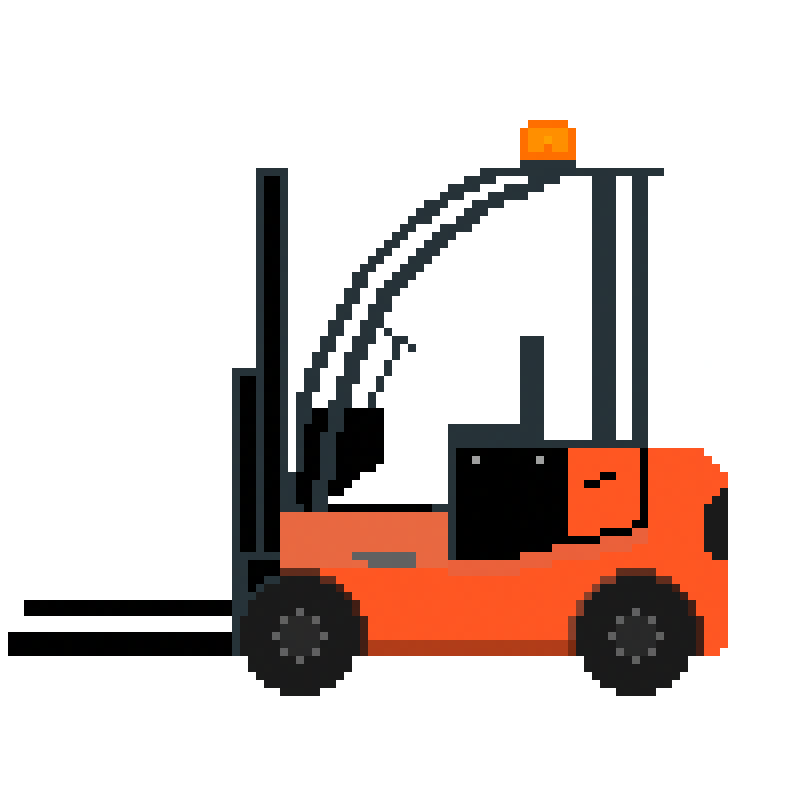
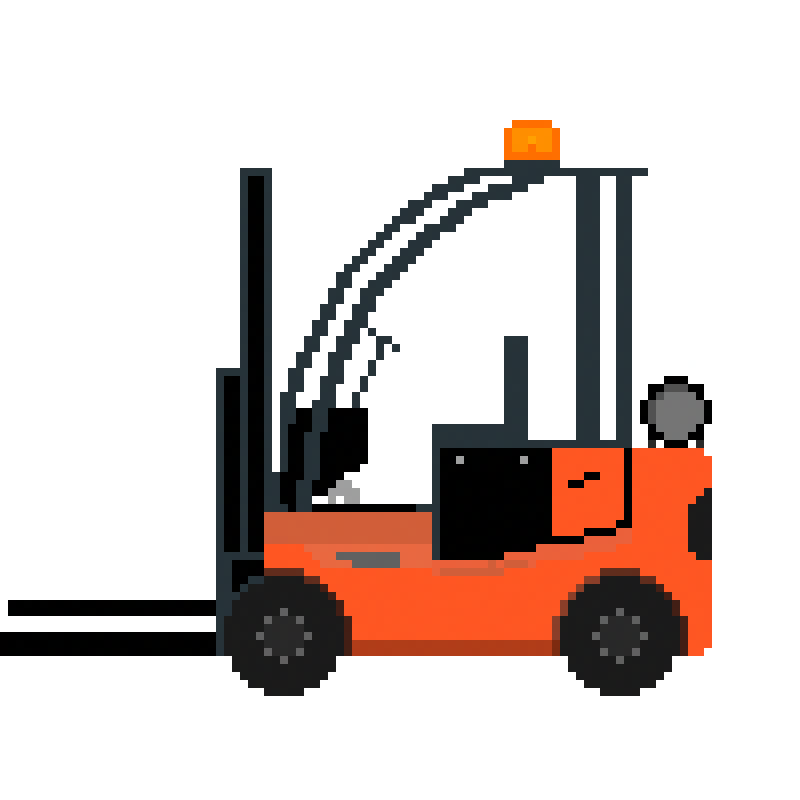
atualização do combustivel da empilhadeira

diff --git a/Plácydo/Final/src/Tasks/empilhadeira.svelte b/Plácydo/Final/src/Tasks/empilhadeira.svelte
@@ -32,7 +32,7 @@
     { id: "./images/info/arrefecimento.png", dd: 3, chk: "" },
     { id: "./images/info/giroflex.png", dd: 4, chk: "" },
     { id: "./images/info/som.png", dd: 5, chk: "" },
-    { id: "./images/info/bateria.png", dd: 6, chk: "" },
+    { id: "./images/info/gas.png", dd: 6, chk: "" },
   ];
 
   for (let i = 0; i < ico.length; i++) {
@@ -91,7 +91,7 @@
           "esse sinalizador luminoso é o giroflex",
           "a funçao dele é avisar para pessoas que estejam perto do equipamento sobre seu deslocamento ou movimentação.",
           "caso não funione quando ligado, deve se solicitar a troca",
-          "A empilhadeira só se movimenta com o girolex funcionanado, assim se tornando impropia para uso."
+          "A empilhadeira só se movimenta com o girolex funcionanado, assim se tornando impropia para o uso."
         ],
         [
           /*som de re*/ "",
@@ -101,8 +101,15 @@
           "A empilhadeira só se movimenta com o som funcionanado, assim se tornando impropia para uso."
         ],
         [
-          "a bateria esta prestes a acabar",
-          "clique no painel para poder carregar",
+          "",
+          "combustivel da empilhadeira",
+          "em nossa empresa não temos pit stop para reabaster a empiladeira",
+          "para reabastecer a empilhadeira deve repor com outro cilindro ja cheio",
+          "para efetuar a troca deve fechar a saida do gas do cilindro depois retirar a mangueira do cilindro",
+          "mas cuidado! pode sair o gas que ficou armazenada na mangeueira e o vazamento pode congelar sua mão e o gas ir em direção a seu olho",
+          "para evitar deve ligar a empilhadeira depois de fechar a vauvula do cilindro assim fazendo a empilhadeira consumir o gás restante da mangeuira",
+          "feito isso remova a mangueira","reitire do suporte que apoia e prende o cilindro","e coloque um cheio","faça o caminho inverso agora",
+          "coloque o cilindro","prenda junto ao suporte","coloque a mangueira","abra a vauvula","e sua empilhadeira esta pronta para o uso"
         ],
         [
           "",
@@ -121,9 +128,8 @@
       if (!(text[roteiro.dd].length == roteiro.nxtTxt)) {
         falar = text[roteiro.dd][roteiro.nxtTxt].substring(0, roteiro.txt);
         roteiro.txt++;
-        // console.log(roteiro.dd,roteiro.nxtTxt)
       } else if (text[roteiro.dd].length == roteiro.nxtTxt) {
-        if (roteiro.nxtTxt == text[0].length) {
+        if (roteiro.nxtTxt == text[0].length && roteiro.dd != 4 && roteiro.dd != 5) {
           transiçao1();
         }
         roteiro.nxtTxt = 0;
@@ -153,7 +159,6 @@
   var backgroundX = 0;
   /*aqui é só pra fazer o movimento de fundo da tela, mudando a posição atraves de pixels*/
   const background = setInterval(() => {
-    document.getElementById("UID").style.display = "none";
     backgroundX += 3;
     document.getElementById("Fundo").style.backgroundPosition =
       backgroundX + "px";
@@ -170,67 +175,53 @@
     switch (num) {
       case 1: //exemplo: esse é o motor
         src = "/images/info/motor.gif";
-        task = document.getElementById("boxImg");
-        task.style.display = "flex";
-        document.getElementById("UID").style.display = "flex";
+        document.getElementById("boxImg").style.display = "flex";
         score += 30;
         ico[0].chk = "/images/info/check.png";
         break;
       case 2: //rodas
         src = "/images/info/pneumurcho.png";
-        task = document.getElementById("boxImg");
-        task.style.display = "flex";
-        document.getElementById("UID").style.display = "flex";
+        document.getElementById("boxImg").style.display = "flex";
         score += 15;
         ico[1].chk = "/images/info/check.png";
         break;
       case 3: //arrefecimento
         src = "./images/info/aqua.png";
-        task = document.getElementById("boxImg");
         document.getElementById("boxImg").style.display = "flex";
-        document.getElementById("UID").style.display = "flex";
         score += 25;
         ico[2].chk = "/images/info/check.png";
         break;
       case 4:
-        document.getElementById("empilhadeira").style.backgroundImage =
-          "url('./images/info/FlexEmp.gif')";
-        document.getElementById("UID").style.display = "flex";
         score += 10;
         ico[3].chk = "/images/info/check.png";
         break;
       case 5:
-        document.getElementById("UID").style.display = "flex";
         audio.play();
         score += 10;
         ico[4].chk = "/images/info/check.png";
         break;
       case 6:
-        console.log("bateria");
-        document.getElementById("list").style.display = "flex";
-        document.getElementById("batera").style.animationName = "a";
+        src = "./images/info/BarrilEmp.png";
+        document.getElementById("boxImg").style.display = "flex";
         score += 10;
         ico[5].chk = "/images/info/check.png";
-        FinalCheck = ico.every(checkAge);
         break;
       case 7: //aqui é quando aperta na seta ele ira voltar como estava no incio
+        document.getElementById("UID").style.display = 'none'
         document.getElementById("empilhadeira").style.backgroundImage =
           "url('./images/info/stopEmp.png')";
         document.getElementById("boxImg").style.display = "none";
         document.getElementById("Fundo").style.backgroundImage =
           "url('./images/background22.png')";
         document.getElementById("list").style.display = "flex";
-        document.getElementById("UID").style.display = "none";
         document.getElementById("dialogo").style.display = "none";
-        roteiro.nxtTxt = 0;
-        task.style.display = "none";
-        FinalCheck = ico.every(checkAge);
+        FinalCheck = ico.every(checkLst);
         console.log(FinalCheck);
         break;
     }
   }
-  function checkAge(age) {
-    return age.chk == "/images/info/check.png";
+  function checkLst(icoLst) {
+    return icoLst.chk == "/images/info/check.png";
   }
   function backToLobbyEpi() {
     $totalPoints += score;
@@ -267,11 +258,11 @@
               <li />
             {/each}
 
-            <div id="batera" />
           </ul>
         </div>
 
         <div id="empilhadeira" />
+
       </div>
 
       <div id="boxImg">
@@ -325,22 +316,50 @@
               src="/images/info/arrefecimentoAnim.gif"
               alt="testando"
             />
+          {:else if roteiro.dd == 6 && roteiro.nxtTxt == 4}  
+          <img
+          style="position:absolute; left:0;"
+          src="/images/info/animaçao/fechar.gif"
+          alt="testando"
+          />
+          {:else if roteiro.dd == 6 && roteiro.nxtTxt == 5}  
+            <img
+          style="position:absolute; left:0;"
+          src="/images/info/animaçao/vazamento.gif"
+          alt="testando"
+          />
+          {:else if roteiro.dd == 6 && roteiro.nxtTxt == 7}  
+            <img
+          style="position:absolute; left:0;"
+          src="/images/info/animaçao/removendoCabo.gif"
+          alt="testando"
+          />
+          {:else if roteiro.dd == 6 && roteiro.nxtTxt == 8}  
+            <img
+          style="position:absolute; left:0;"
+          src="/images/info/animaçao/removendoBarril.gif"
+          alt="testando"
+          />
           {/if}
         </ul>
       </div>
       {#if FinalCheck}
+      <div id="fim" style="display: none;">
+        <!--coloca aqui os textos-->
+      </div>
         <div
           id="UID"
           style="display: flex ; background-image: url('/images/seta.gif'); width:65px;"
           on:click={() => {
-            // document.getElementById("empilhaBox").style.display = "none";
-            backToLobbyEpi();
+            document.getElementById("fim").style.display = 'flex'
+            document.getElementById("UID").style.display = 'none'
+             // backToLobbyEpi();
           }}
         />
-      {:else}
+      {:else if roteiro.nxtTxt == 0 && roteiro.dd != 0 && roteiro.dd != 7}
         <div
           id="UID"
-          style="display: none ; background-image: url('/images/seta.gif'); width:65px;"
+          style="display: flex ; background-image: url('/images/seta.gif'); width:65px;"
           on:click={() => {
             lst(7);
           }}

diff --git a/Plácydo/Final/public/styles/empilhadeira.css b/Plácydo/Final/public/styles/empilhadeira.css
@@ -100,7 +100,12 @@ div#list ul li img, #opa img {
     background-position: 12%;
     bottom: -40px;
 }
-
+#fim{
+    position: absolute;    
+    width: 100%;
+    height: 100%;
+    background-color: #ffff;
+}
 #UID{
     position: absolute;
     top: -20px;
@@ -146,18 +151,6 @@ div#block {
     bottom: 0;
     right: 0;
 } 
-
-#batera {
-    content: '';
-    position: absolute;
-    display: flex;
-    width:33px;
-    height: 10px;
-    background-color: green;
-    right: 25.4%;
-    top: 396px;
-    animation: aa 3s forwards;
-}
 
 #dialogo p {
     margin: 3%;
